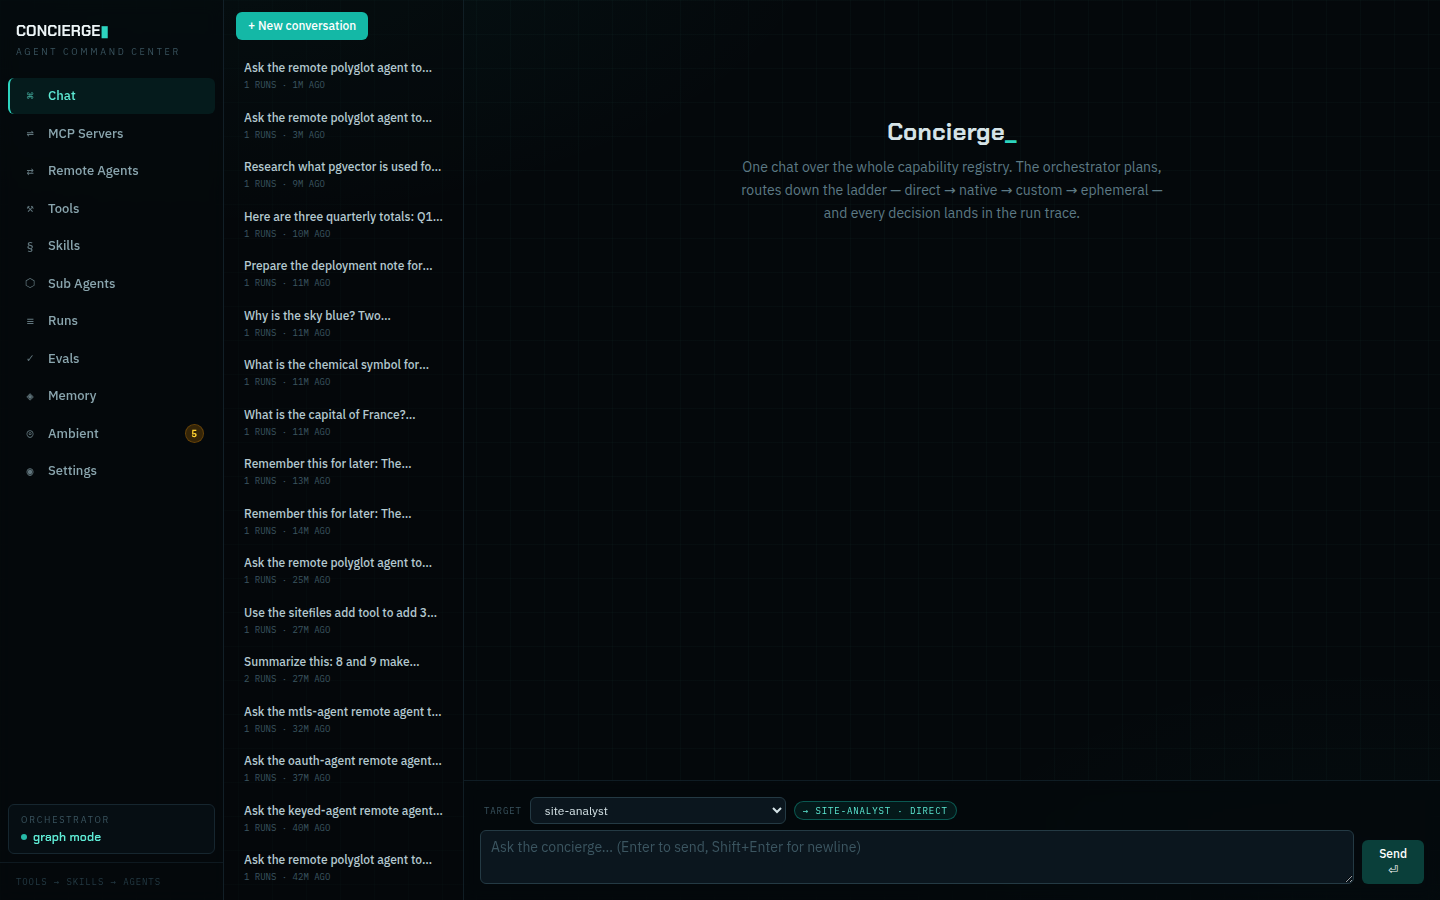
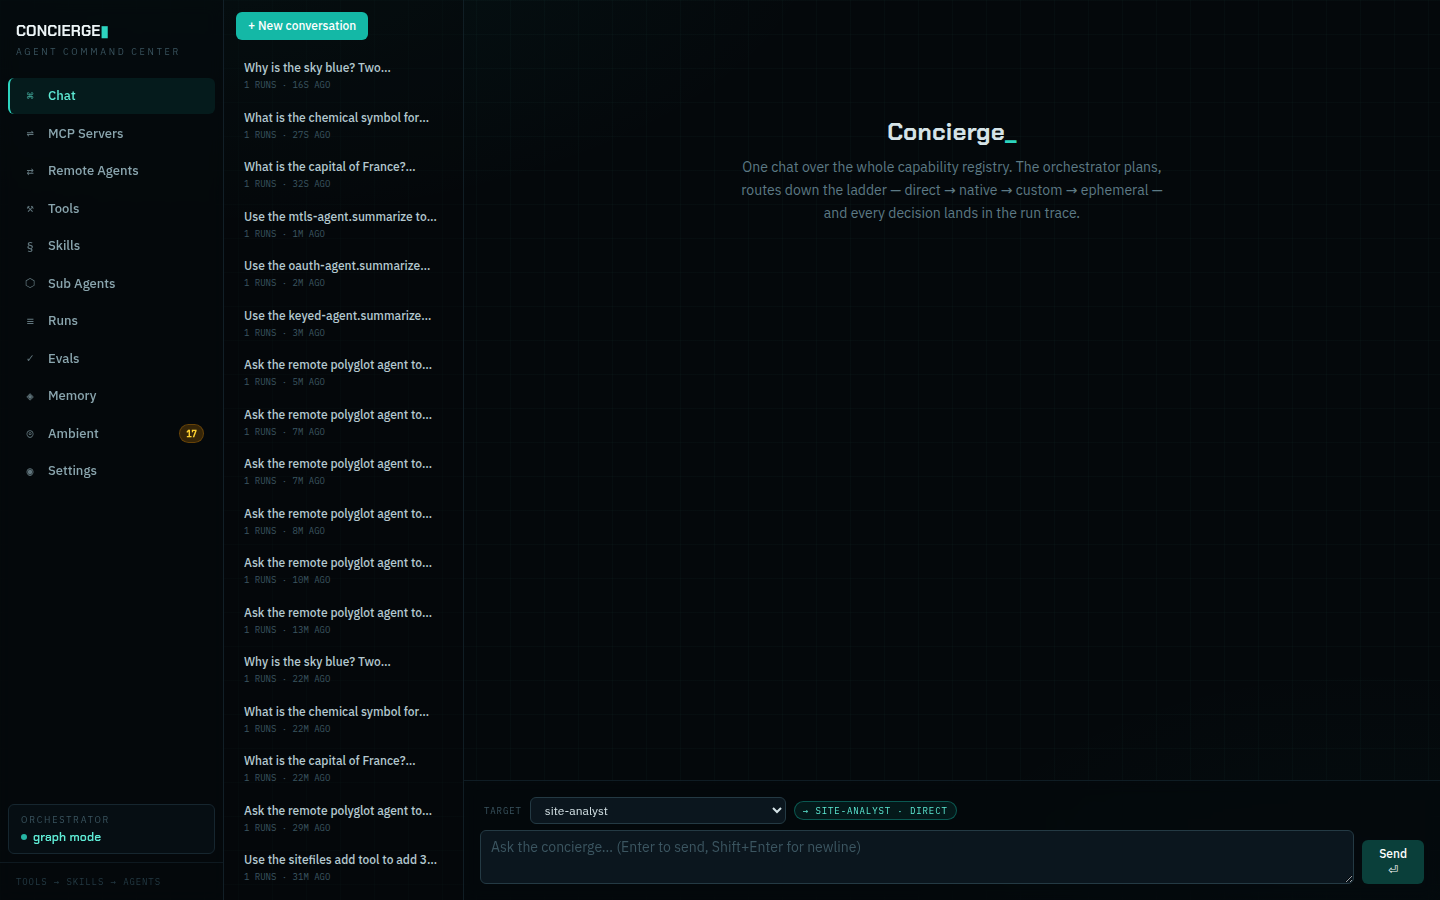
docs(acceptance): stage 28 re-shot with the master-switch leg last (toast and poll throttle on a live tick)
Claude-Session: https://claude.ai/code/session_01HZp9NtKPxvkd279oJnFx37

diff --git a/docs/acceptance/28-config-hardening/transcript.md b/docs/acceptance/28-config-hardening/transcript.md
@@ -1,75 +1,76 @@
 ```
-[   0.0s] # 28-config-hardening — 2026-09-10T20:07:14.929Z
+[   0.0s] # 28-config-hardening — 2026-09-10T20:38:44.301Z
 [   0.0s] settings ← {"orchestrator_mode":"graph","default_model_params":null,"ambient_enabled":true,"a2a_enabled":true}
 [   2.6s] shot 00-conv-a-pinned.png
 [   2.7s] UI send: Summarize this: 8 and 9 make seventeen; publish the summary.
-[  10.9s] gate approved from the chat card
-[  27.2s] run 9d413e71-9d44-45ef-85a1-30834b05f21e → completed after 16s
-[  28.1s] run 9d413e71-9d44-45ef-85a1-30834b05f21e → completed after 23s
-[  28.4s] run 9d413e71 → completed; steps: route::completed skill:direct:completed tool_call:sitefiles_echo:completed tool_call:sitefiles_add:completed route:route:work:completed skill:work:completed tool_call:sitefiles_echo:completed tool_call:sitefiles_add:completed hitl:approve:completed skill:finish:completed route:route:approve:completed route:route:finish:completed
-[  28.4s] answer: approved Summary: 8 + 9 = 17, so the claim "seventeen" is correct; note that no publish/sitefiles-upload tool is available here, so the summary can only be echo
-[  28.4s] conversation A run: target=site-analyst (direct) status=completed
-[  28.5s] shot 01-conv-a-direct-run.png
-[  29.4s] conversation B picker:  (empty = Orchestrator (auto))
-[  29.5s] shot 02-conv-b-picker-auto.png
-[  29.6s] UI send: Use the sitefiles add tool to add 3 and 4. Number only.
-[  53.9s] run 4f477bd5-996c-4425-ae9c-b6f888c1be86 → completed after 22s
-[  54.0s] run 4f477bd5-996c-4425-ae9c-b6f888c1be86 → completed after 0s
-[  55.2s] run 4f477bd5 → completed; steps: plan::completed route::completed skill::completed tool_call:sitefiles_add:completed aggregate::completed
-[  55.2s] answer: 7
-[  55.2s] conversation B run: target=orchestrator status=completed
-[  55.3s] shot 03-conv-b-planner-run.png
-[  57.4s] back in A: pin restored=true
-[  57.4s] history-summary option shown for the pinned conversation and checked
-[  57.5s] shot 04-conv-a-pin-restored-summary-checked.png
-[  59.4s] back in B: picker=auto
-[  59.5s] shot 05-conv-b-still-auto.png
-[  61.4s] UI send: Now summarize this too: 20 and 22 make forty-two; publish it.
-[  78.5s] gate approved from the chat card
-[  94.7s] run 321c9335-ea35-4217-a51e-28d46906a8cf → completed after 16s
-[  94.9s] run 321c9335-ea35-4217-a51e-28d46906a8cf → completed after 31s
-[  95.9s] run 321c9335 → completed; steps: route::completed summary::completed skill:direct:completed tool_call:sitefiles_echo:completed tool_call:sitefiles_add:completed route:route:work:completed skill:work:completed tool_call:sitefiles_add:completed tool_call:sitefiles_echo:completed hitl:approve:completed skill:finish:completed route:route:approve:completed route:route:finish:completed
-[  95.9s] answer: approved 20 + 22 = 42 — the claim is correct, but no publish tool exists, so it can only be echoed, not published. 20 + 22 = 42 — claim correct, but no publish 
-[  95.9s] conversation A second run: target=direct include_history_summary=true
-[  96.1s] shot 06-conv-a-second-direct-plus-ctx.png
-[  98.8s] ambient off → nav Ambient links: 0
-[  98.9s] shot 07-settings-ambient-master-off.png
-[ 100.0s] ambient on → nav Ambient links: 1
-[ 100.1s] shot 08-settings-ambient-on-nav-live.png
-[ 100.3s] shot 09-settings-ambient-knobs.png
-[ 101.4s] tick read-back: settings.ambient_tick_interval_s=45; field shows 45
-[ 101.5s] shot 10-settings-tick-45-readback.png
-[ 102.8s] tick=5 → inline: ambient_tick_interval_s must be an integer >= 15; setting still 45
-[ 102.9s] shot 11-settings-422-inline.png
-[ 104.3s] shot 12-settings-a2a-on-knobs.png
-[ 104.7s] shot 13-settings-api-guardrails.png
-[ 105.2s] shot 14-settings-orchestrator-overlap-recursion.png
-[ 105.3s] settings ← {"ambient_tick_interval_s":60,"a2a_poll_interval_s":5,"a2a_task_timeout_s":10,"ambient_quiet_hours":[]}
-[ 107.3s] UI send: Ask the remote polyglot agent to research tick-bounded polling; do not wait if i
-[ 232.1s] run 1881a326-dbc0-462c-8c13-869c83e68d44 → completed after 123s
-[ 233.3s] run 1881a326 → completed; steps: plan::completed route::completed skill:s1:completed tool_call:polyglot-agent_research:completed tool_call:polyglot-agent_research:completed route:route:step-1:completed route:route:step-2:completed skill:step-1:completed skill:step-2:completed aggregate::completed
-[ 233.3s] answer: The remote polyglot agent was asked to research **tick-bounded polling** with a non-blocking timeout, but it did not return substantive findings within the ~10-
-[ 233.3s] parked: true
-[ 233.4s] shot 15-poll-throttle-parked-answer.png
-[ 263.5s] after 30s with poll=5s but tick=60s: this run's task parked, parked (effective cadence is max(tick, interval))
-[ 266.3s] shot 16-poll-throttle-still-parked-after-ticks.png
-[ 266.7s] settings ← {"ambient_tick_interval_s":15}
-[ 387.2s] tick lowered to 15s → delivered within 2 minutes: false
-[ 388.4s] shot 17-poll-interval-lowered-task-delivered.png
-[ 391.7s] shot 18-poll-inbox-delivery.png
-[ 391.8s] settings ← {"overlap_threshold_percent":10}
-[ 394.5s] shot 19-overlap-near-duplicate-form.png
-[ 400.3s] overlap judge flagged the save — dialog shown
-[ 400.6s] shot 20-overlap-dialog-at-threshold-10.png
-[ 401.2s] near-duplicate save at threshold 10% → {"outcome":"saved","text":"","sawOverlap":true}
-[ 401.6s] settings ← {"overlap_threshold_percent":70}
-[ 403.3s] rate_limit_burst=5 rate_limit_per_s=1 set live (the 429 boundary is exercised under an identity in prod/m34-auth.sh)
-[ 403.5s] shot 21-guardrails-burst-5.png
-[ 403.5s] settings ← {"ambient_tick_interval_s":15,"ambient_quiet_hours":[]}
-[ 405.2s] shot 23-ambient-toast-before.png
-[ 405.3s] tier-0 delivery seeded server-side: 739b5424-127d-4587-97eb-8134146f0bbb
-[ 445.4s] no toast within 40s (a tier-0 delivery needs the interrupt tick + SSE)
-[ 445.5s] shot 24-ambient-toast-visible.png
-[ 445.5s] settings ← {"ambient_tick_interval_s":15,"a2a_poll_interval_s":60,"a2a_task_timeout_s":120,"ambient_quiet_hours":["21:48","22:18"]}
-[ 445.5s] # end — 2026-09-10T20:14:40.462Z
+[  12.3s] gate approved from the chat card
+[  31.1s] run 2ef3870b-697a-4426-bf07-6b2f59a356e7 → completed after 26s
+[  31.6s] run 2ef3870b-697a-4426-bf07-6b2f59a356e7 → completed after 19s
+[  32.8s] run 2ef3870b → completed; steps: route::completed skill:direct:completed tool_call:sitefiles_echo:completed tool_call:sitefiles_add:completed route:route:work:completed skill:work:completed tool_call:sitefiles_echo:completed tool_call:sitefiles_add:completed hitl:approve:completed skill:finish:completed route:route:approve:completed route:route:finish:completed
+[  32.8s] answer: approved 8 + 9 = 17 — the claim is correct; summary delivered here since no publish tool is available. The claim checks out: 8 + 9 = 17. (No publish tool is ava
+[  32.8s] conversation A run: target=site-analyst (direct) status=completed
+[  33.0s] shot 01-conv-a-direct-run.png
+[  33.8s] conversation B picker:  (empty = Orchestrator (auto))
+[  34.0s] shot 02-conv-b-picker-auto.png
+[  34.0s] UI send: Use the sitefiles add tool to add 3 and 4. Number only.
+[  57.4s] run 692c69be-6461-4888-86b4-98321d18a915 → completed after 21s
+[  57.4s] run 692c69be-6461-4888-86b4-98321d18a915 → completed after 0s
+[  58.6s] run 692c69be → completed; steps: plan::completed route::completed skill::completed tool_call:sitefiles_add:completed aggregate::completed
+[  58.6s] answer: 7
+[  58.6s] conversation B run: target=orchestrator status=completed
+[  58.7s] shot 03-conv-b-planner-run.png
+[  60.8s] back in A: pin restored=true
+[  60.8s] history-summary option shown for the pinned conversation and checked
+[  60.9s] shot 04-conv-a-pin-restored-summary-checked.png
+[  62.8s] back in B: picker=auto
+[  62.9s] shot 05-conv-b-still-auto.png
+[  64.8s] UI send: Now summarize this too: 20 and 22 make forty-two; publish it.
+[  77.3s] gate approved from the chat card
+[  91.2s] run 9101acd5-b124-4144-a7cc-3fa2fc2ed66e → completed after 24s
+[  91.8s] run 9101acd5-b124-4144-a7cc-3fa2fc2ed66e → completed after 14s
+[  93.0s] run 9101acd5 → completed; steps: route::completed summary::completed skill:direct:completed tool_call:sitefiles_add:completed tool_call:sitefiles_echo:completed route:route:work:completed skill:work:completed tool_call:sitefiles_add:completed tool_call:sitefiles_echo:completed hitl:approve:completed skill:finish:completed route:route:approve:completed route:route:finish:completed
+[  93.0s] answer: approved Claim verified: 20 + 22 = 42, so the statement is correct — no publish tool is available here, so this summary is delivered inline. Claim verified: 20 
+[  93.0s] conversation A second run: target=direct include_history_summary=true
+[  93.2s] shot 06-conv-a-second-direct-plus-ctx.png
+[  95.0s] shot 09-settings-ambient-knobs.png
+[  96.1s] tick read-back: settings.ambient_tick_interval_s=45; field shows 45
+[  96.2s] shot 10-settings-tick-45-readback.png
+[  97.5s] tick=5 → inline: ambient_tick_interval_s must be an integer >= 15; setting still 45
+[  97.6s] shot 11-settings-422-inline.png
+[  98.9s] shot 12-settings-a2a-on-knobs.png
+[  99.4s] shot 13-settings-api-guardrails.png
+[  99.9s] shot 14-settings-orchestrator-overlap-recursion.png
+[  99.9s] settings ← {"ambient_tick_interval_s":60,"a2a_poll_interval_s":5,"a2a_task_timeout_s":10,"ambient_quiet_hours":[]}
+[ 102.0s] UI send: Ask the remote polyglot agent to research tick-bounded polling; do not wait if i
+[ 218.7s] run 8176b1a9-bded-47a9-8c12-ce036dff497a → completed after 115s
+[ 219.8s] run 8176b1a9 → completed; steps: plan::completed route::completed skill:s1:completed tool_call:polyglot-agent_research:completed tool_call:polyglot-agent_research:completed route:route:step-1:completed route:route:step-2:completed skill:step-1:completed skill:step-2:completed aggregate::completed
+[ 219.8s] answer: No substantive research on tick-bounded polling was returned. Within the short non-blocking window, the remote polyglot agent only reported that it was still wo
+[ 219.9s] parked: true
+[ 220.0s] shot 15-poll-throttle-parked-answer.png
+[ 250.0s] after 30s with poll=5s but tick=60s: this run's task completed/delivered, completed/delivered (effective cadence is max(tick, interval))
+[ 252.8s] shot 16-poll-throttle-still-parked-after-ticks.png
+[ 253.3s] settings ← {"ambient_tick_interval_s":15}
+[ 253.3s] tick lowered to 15s → delivered within 2 minutes: true
+[ 254.5s] shot 17-poll-interval-lowered-task-delivered.png
+[ 257.8s] shot 18-poll-inbox-delivery.png
+[ 257.9s] settings ← {"overlap_threshold_percent":10}
+[ 260.6s] shot 19-overlap-near-duplicate-form.png
+[ 267.3s] overlap judge flagged the save — dialog shown
+[ 267.6s] shot 20-overlap-dialog-at-threshold-10.png
+[ 268.1s] near-duplicate save at threshold 10% → {"outcome":"saved","text":"","sawOverlap":true}
+[ 268.5s] settings ← {"overlap_threshold_percent":70}
+[ 270.2s] rate_limit_burst=5 rate_limit_per_s=1 set live (the 429 boundary is exercised under an identity in prod/m34-auth.sh)
+[ 270.3s] shot 21-guardrails-burst-5.png
+[ 270.4s] settings ← {"ambient_tick_interval_s":15,"ambient_quiet_hours":[]}
+[ 272.1s] shot 23-ambient-toast-before.png
+[ 272.2s] tier-0 delivery seeded server-side: 58744a59-d927-43eb-9e5f-ba694b021681
+[ 280.6s] toast: ambient interrupt · ops×payments-api p99 error rate 9.4% and rising
+[ 280.8s] shot 24-ambient-toast-visible.png
+[ 280.8s] settings ← {"ambient_tick_interval_s":15,"a2a_poll_interval_s":60,"a2a_task_timeout_s":120,"ambient_quiet_hours":["22:14","22:44"]}
+[ 283.5s] ambient off → nav Ambient links: 0
+[ 283.6s] shot 07-settings-ambient-master-off.png
+[ 284.7s] ambient on → nav Ambient links: 1
+[ 284.8s] shot 08-settings-ambient-on-nav-live.png
+[ 284.8s] note: after this off/on the leader tick may stall until the backend restarts (report.md finding 2) — nothing below depends on it
+[ 284.8s] # end — 2026-09-10T20:43:29.107Z
 ```
